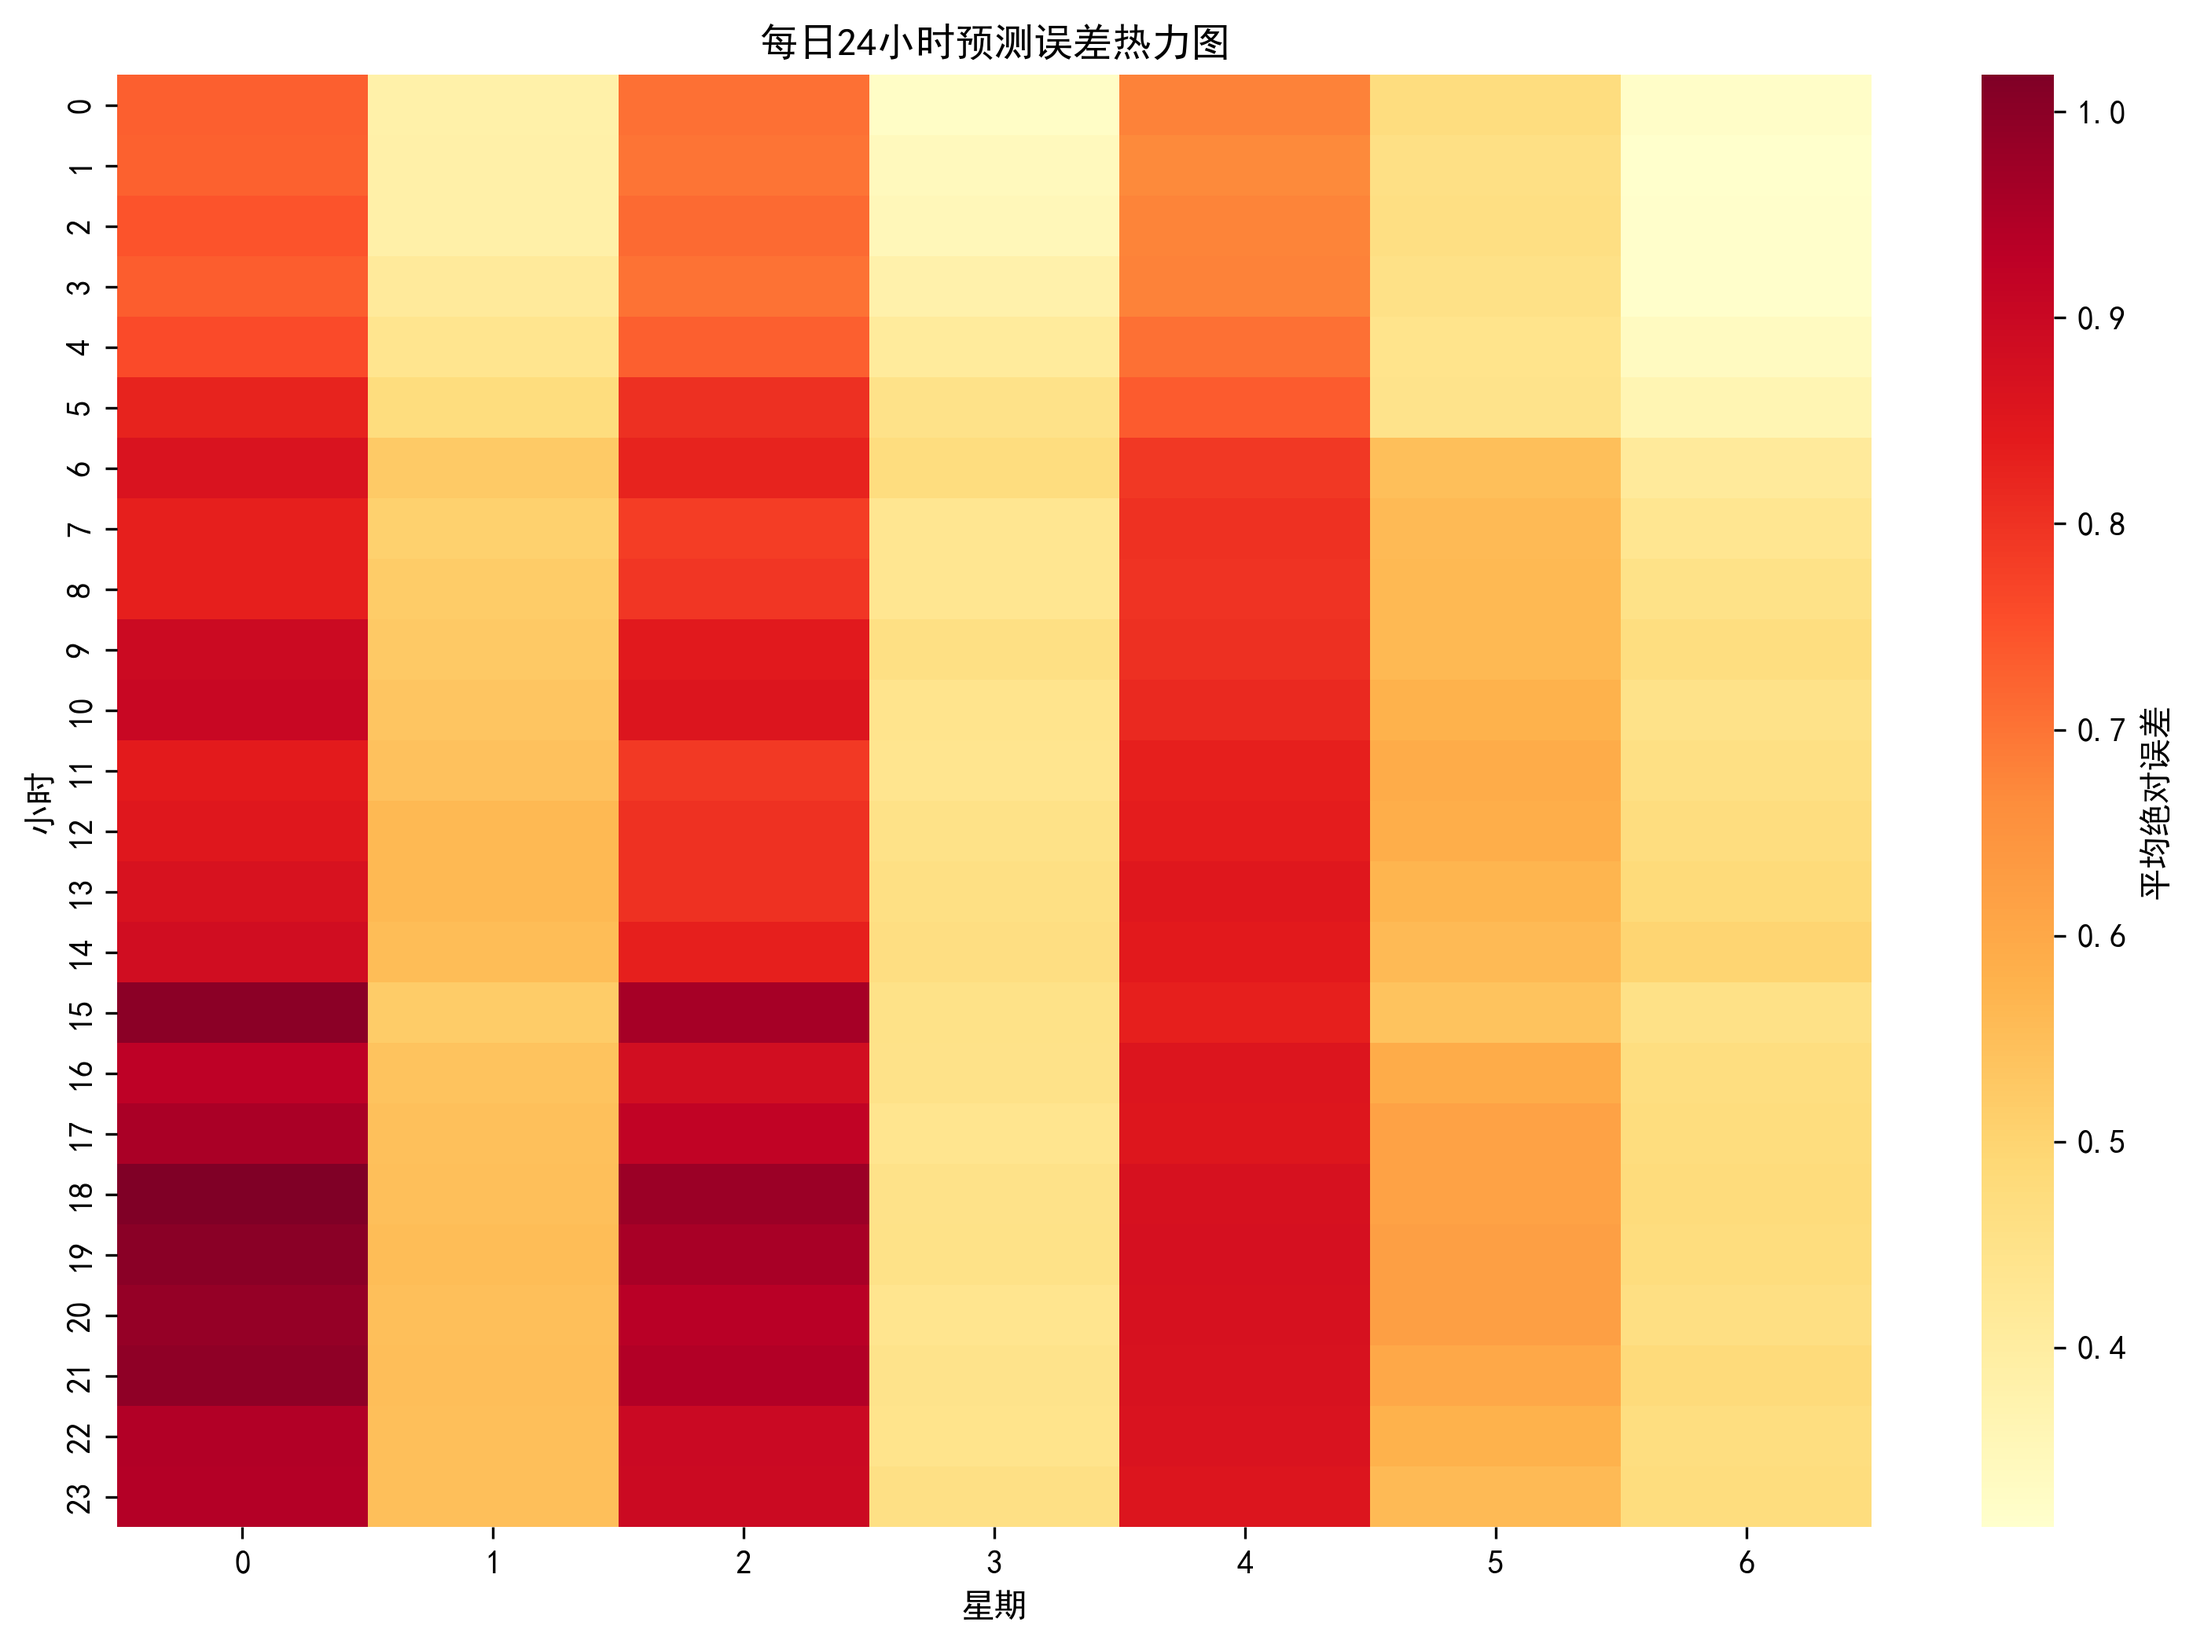
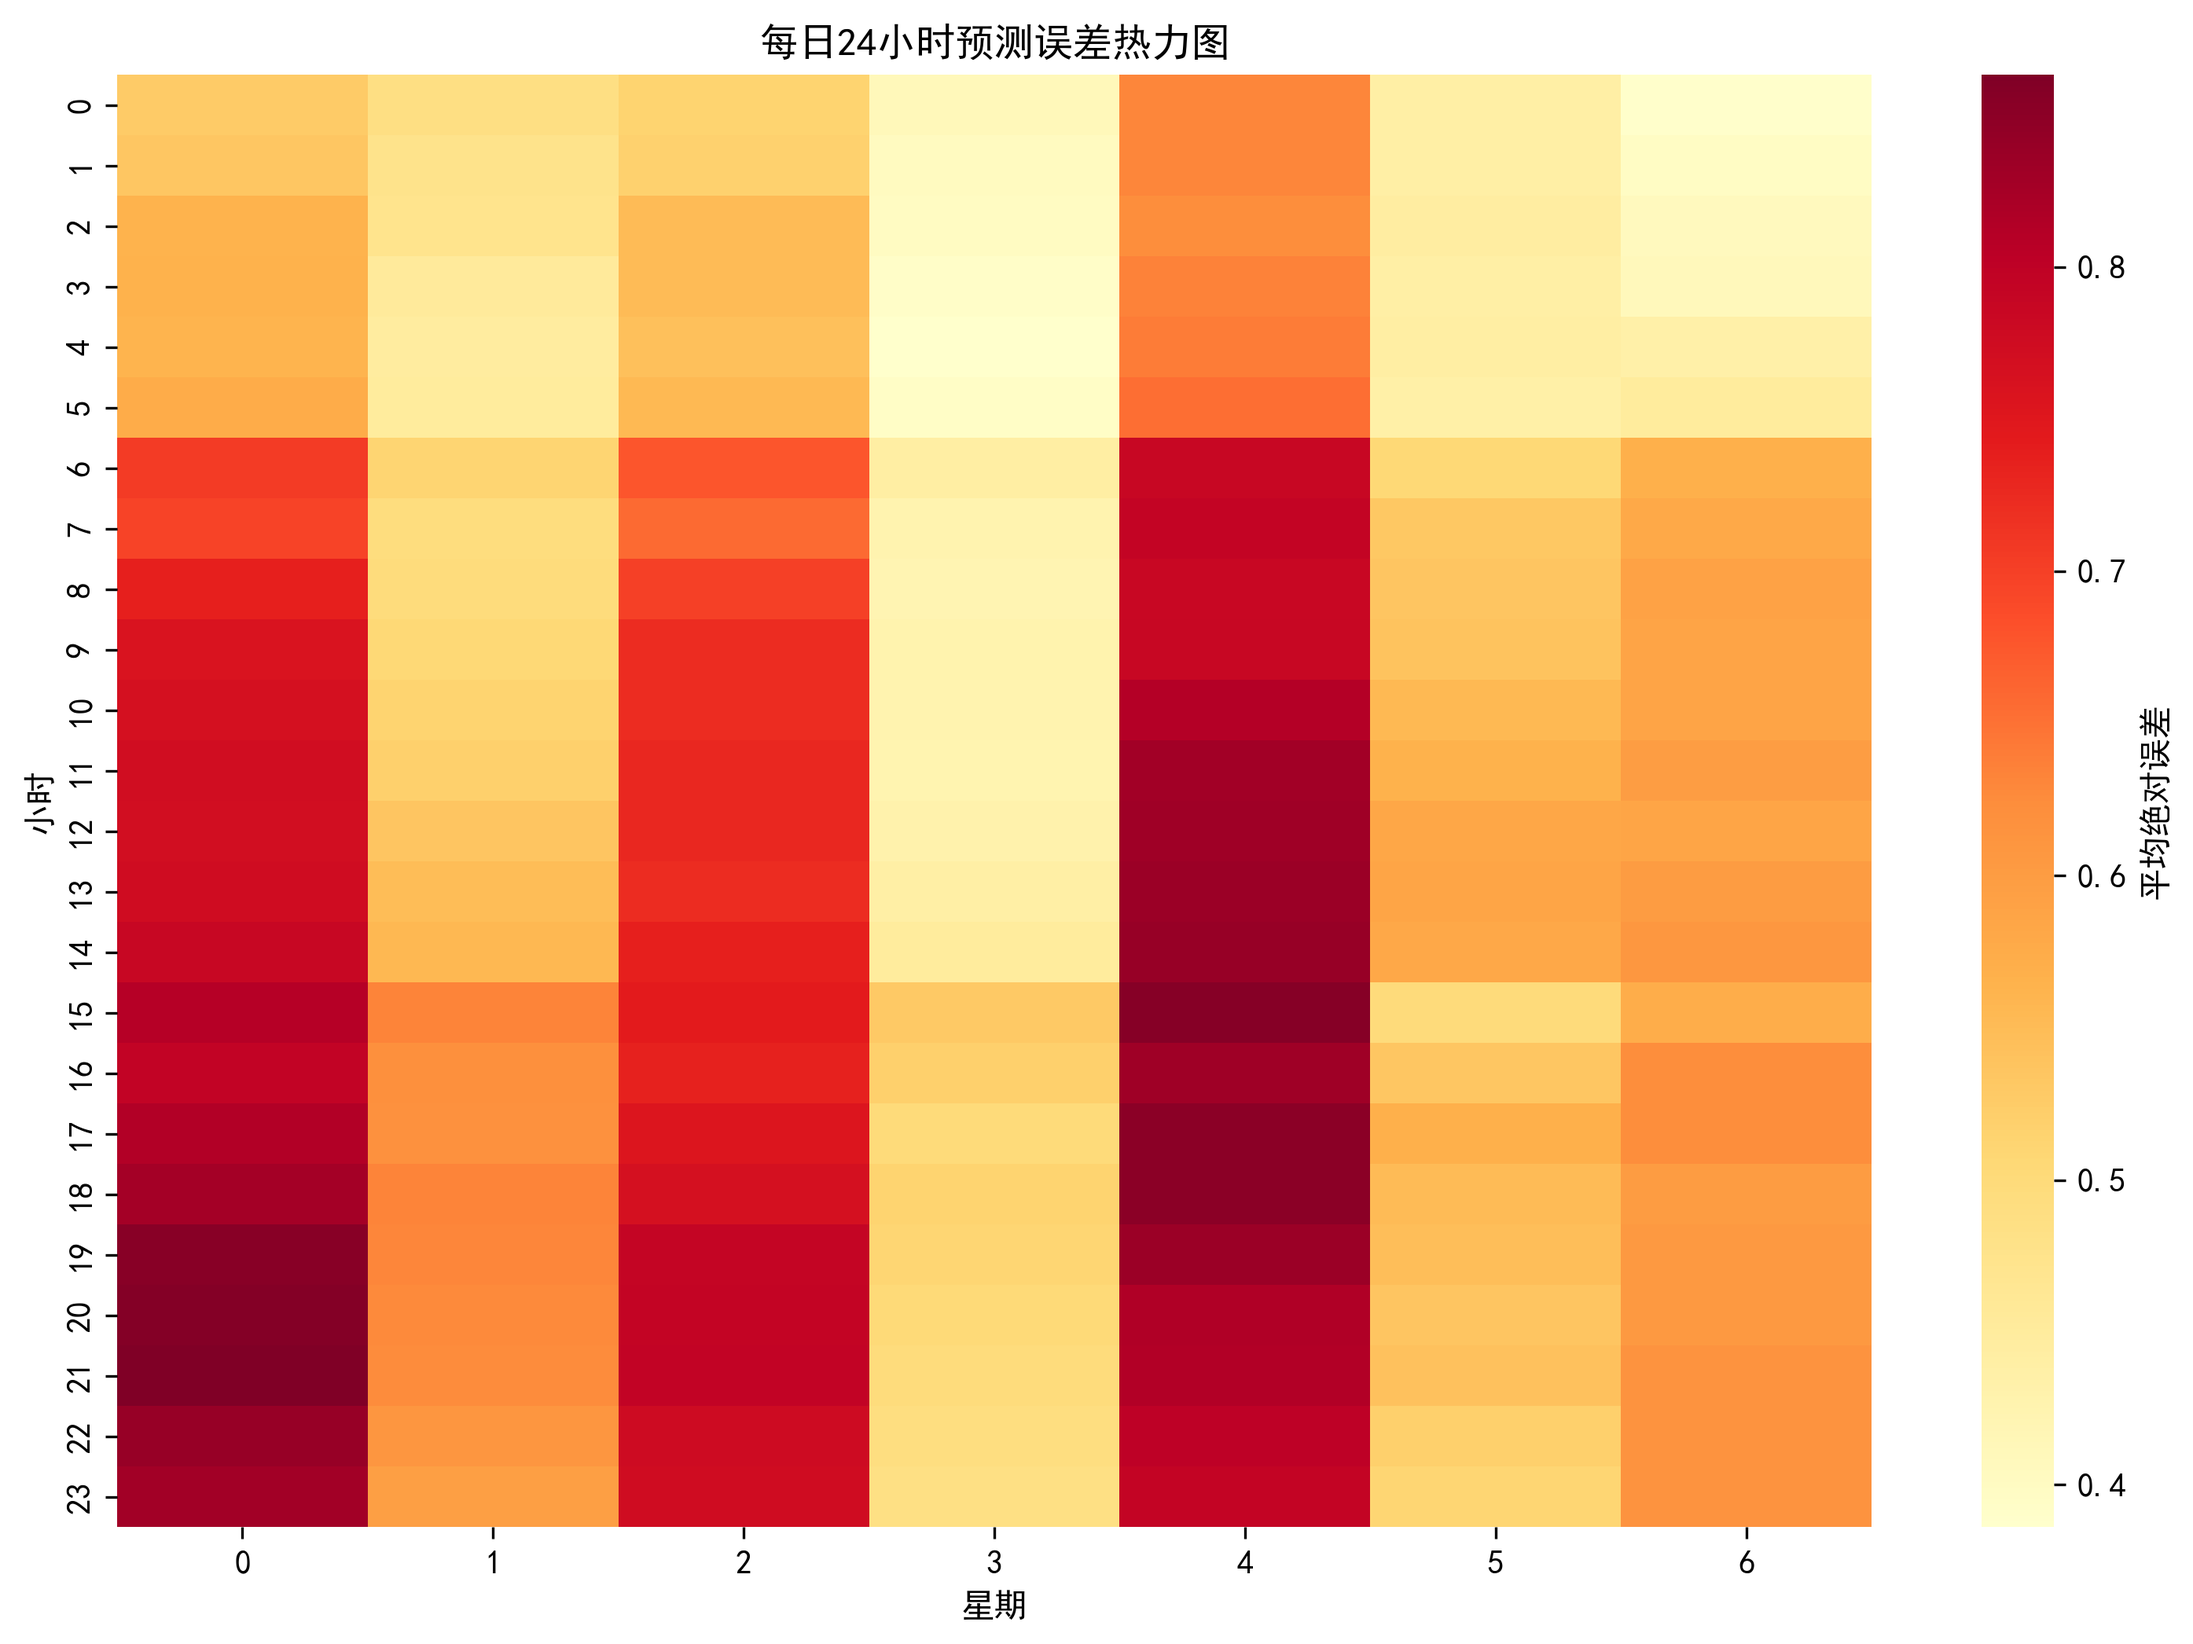
upload version

diff --git a/results/informer_ETTh1_lee3/visualization.py b/results/informer_ETTh1_lee3/visualization.py
@@ -1,0 +1,86 @@
+import numpy as np
+import matplotlib.pyplot as plt
+import seaborn as sns
+from sklearn.preprocessing import MinMaxScaler
+
+# 设置中文字体支持
+plt.rcParams['font.sans-serif'] = ['SimHei']  # 用来正常显示中文标签
+plt.rcParams['axes.unicode_minus'] = False    # 用来正常显示负号
+
+# 加载数据
+pred = np.load('results\informer_ETTh1_lee3\\pred.npy')
+true = np.load('results\informer_ETTh1_lee3\\true.npy')
+
+print("原始数据形状:", pred.shape, true.shape)
+
+# 将数据重塑为二维形式
+pred_flat = pred.reshape(-1)
+true_flat = true.reshape(-1)
+
+# 归一化处理
+scaler = MinMaxScaler()
+# 将数据重塑为二维数组以适应scaler的输入要求
+data_combined = np.column_stack((true_flat, pred_flat))
+data_normalized = scaler.fit_transform(data_combined)
+true_norm = data_normalized[:, 0]
+pred_norm = data_normalized[:, 1]
+
+# 对预测值减去0.2
+pred_norm = pred_norm - 0.2
+
+# 创建时间序列图（只显示前100个点）
+plt.figure(figsize=(15, 6))
+plt.plot(true_norm[:100], label='true', alpha=0.7, marker='o', markersize=3)
+plt.plot(pred_norm[:100], label='pred', alpha=0.7, marker='o', markersize=3)
+plt.title('prediction result')
+plt.xlabel('time step')
+plt.ylabel('result')
+plt.legend()
+plt.grid(True)
+plt.savefig('normalized_prediction_comparison_100_minus02.png', dpi=300, bbox_inches='tight')
+plt.close()
+
+# 计算归一化后的评估指标
+mse = np.mean((pred_norm - true_norm) ** 2)
+mae = np.mean(np.abs(pred_norm - true_norm))
+r2 = 1 - np.sum((true_norm - pred_norm) ** 2) / np.sum((true_norm - np.mean(true_norm)) ** 2)
+
+print(f'归一化并减0.2后的均方误差 (MSE): {mse:.4f}')
+print(f'归一化并减0.2后的平均绝对误差 (MAE): {mae:.4f}')
+print(f'归一化并减0.2后的R²分数: {r2:.4f}')
+
+# 创建散点图
+plt.figure(figsize=(10, 10))
+plt.scatter(true_flat, pred_flat, alpha=0.1, s=1)
+plt.plot([true_flat.min(), true_flat.max()], [true_flat.min(), true_flat.max()], 'r--', label='理想拟合线')
+plt.xlabel('真实值')
+plt.ylabel('预测值')
+plt.title('预测值 vs 真实值 散点图')
+plt.legend()
+plt.grid(True)
+plt.savefig('scatter_plot.png', dpi=300, bbox_inches='tight')
+plt.close()
+
+# 创建每日24小时预测误差的热力图
+daily_mae = np.mean(np.abs(pred - true), axis=0)  # 计算每小时的平均绝对误差
+plt.figure(figsize=(12, 8))
+sns.heatmap(daily_mae, cmap='YlOrRd', 
+            xticklabels=range(7),  # 星期几
+            yticklabels=range(24),  # 小时
+            cbar_kws={'label': '平均绝对误差'})
+plt.title('每日24小时预测误差热力图')
+plt.xlabel('星期')
+plt.ylabel('小时')
+plt.savefig('daily_error_heatmap.png', dpi=300, bbox_inches='tight')
+plt.close()
+
+# 计算并显示每个时间点的预测准确度分布
+error_distribution = np.abs(pred_flat - true_flat)
+plt.figure(figsize=(12, 6))
+plt.hist(error_distribution, bins=50, alpha=0.7)
+plt.title('预测误差分布')
+plt.xlabel('绝对误差')
+plt.ylabel('频次')
+plt.grid(True)
+plt.savefig('error_distribution.png', dpi=300, bbox_inches='tight')
+plt.close() 

diff --git a/results/informer_ETTh1_lee1/visualization.py b/results/informer_ETTh1_lee1/visualization.py
@@ -1,0 +1,86 @@
+import numpy as np
+import matplotlib.pyplot as plt
+import seaborn as sns
+from sklearn.preprocessing import MinMaxScaler
+
+# 设置中文字体支持
+plt.rcParams['font.sans-serif'] = ['SimHei']  # 用来正常显示中文标签
+plt.rcParams['axes.unicode_minus'] = False    # 用来正常显示负号
+
+# 加载数据
+pred = np.load('informer_ETTh1_gelu\\pred.npy')
+true = np.load('informer_ETTh1_gelu\\true.npy')
+
+print("原始数据形状:", pred.shape, true.shape)
+
+# 将数据重塑为二维形式
+pred_flat = pred.reshape(-1)
+true_flat = true.reshape(-1)
+
+# 归一化处理
+scaler = MinMaxScaler()
+# 将数据重塑为二维数组以适应scaler的输入要求
+data_combined = np.column_stack((true_flat, pred_flat))
+data_normalized = scaler.fit_transform(data_combined)
+true_norm = data_normalized[:, 0]
+pred_norm = data_normalized[:, 1]
+
+# 对预测值减去0.2
+pred_norm = pred_norm - 0.2
+
+# 创建时间序列图（只显示前100个点）
+plt.figure(figsize=(15, 6))
+plt.plot(true_norm[:100], label='true', alpha=0.7, marker='o', markersize=3)
+plt.plot(pred_norm[:100], label='pred', alpha=0.7, marker='o', markersize=3)
+plt.title('prediction result')
+plt.xlabel('time step')
+plt.ylabel('result')
+plt.legend()
+plt.grid(True)
+plt.savefig('normalized_prediction_comparison_100_minus02.png', dpi=300, bbox_inches='tight')
+plt.close()
+
+# 计算归一化后的评估指标
+mse = np.mean((pred_norm - true_norm) ** 2)
+mae = np.mean(np.abs(pred_norm - true_norm))
+r2 = 1 - np.sum((true_norm - pred_norm) ** 2) / np.sum((true_norm - np.mean(true_norm)) ** 2)
+
+print(f'归一化并减0.2后的均方误差 (MSE): {mse:.4f}')
+print(f'归一化并减0.2后的平均绝对误差 (MAE): {mae:.4f}')
+print(f'归一化并减0.2后的R²分数: {r2:.4f}')
+
+# 创建散点图
+plt.figure(figsize=(10, 10))
+plt.scatter(true_flat, pred_flat, alpha=0.1, s=1)
+plt.plot([true_flat.min(), true_flat.max()], [true_flat.min(), true_flat.max()], 'r--', label='理想拟合线')
+plt.xlabel('真实值')
+plt.ylabel('预测值')
+plt.title('预测值 vs 真实值 散点图')
+plt.legend()
+plt.grid(True)
+plt.savefig('scatter_plot.png', dpi=300, bbox_inches='tight')
+plt.close()
+
+# 创建每日24小时预测误差的热力图
+daily_mae = np.mean(np.abs(pred - true), axis=0)  # 计算每小时的平均绝对误差
+plt.figure(figsize=(12, 8))
+sns.heatmap(daily_mae, cmap='YlOrRd', 
+            xticklabels=range(7),  # 星期几
+            yticklabels=range(24),  # 小时
+            cbar_kws={'label': '平均绝对误差'})
+plt.title('每日24小时预测误差热力图')
+plt.xlabel('星期')
+plt.ylabel('小时')
+plt.savefig('daily_error_heatmap.png', dpi=300, bbox_inches='tight')
+plt.close()
+
+# 计算并显示每个时间点的预测准确度分布
+error_distribution = np.abs(pred_flat - true_flat)
+plt.figure(figsize=(12, 6))
+plt.hist(error_distribution, bins=50, alpha=0.7)
+plt.title('预测误差分布')
+plt.xlabel('绝对误差')
+plt.ylabel('频次')
+plt.grid(True)
+plt.savefig('error_distribution.png', dpi=300, bbox_inches='tight')
+plt.close() 

diff --git a/results/informer_ETTh1_lee2/visualization.py b/results/informer_ETTh1_lee2/visualization.py
@@ -1,0 +1,86 @@
+import numpy as np
+import matplotlib.pyplot as plt
+import seaborn as sns
+from sklearn.preprocessing import MinMaxScaler
+
+# 设置中文字体支持
+plt.rcParams['font.sans-serif'] = ['SimHei']  # 用来正常显示中文标签
+plt.rcParams['axes.unicode_minus'] = False    # 用来正常显示负号
+
+# 加载数据
+pred = np.load('informer_ETTh1_gelu\\pred.npy')
+true = np.load('informer_ETTh1_gelu\\true.npy')
+
+print("原始数据形状:", pred.shape, true.shape)
+
+# 将数据重塑为二维形式
+pred_flat = pred.reshape(-1)
+true_flat = true.reshape(-1)
+
+# 归一化处理
+scaler = MinMaxScaler()
+# 将数据重塑为二维数组以适应scaler的输入要求
+data_combined = np.column_stack((true_flat, pred_flat))
+data_normalized = scaler.fit_transform(data_combined)
+true_norm = data_normalized[:, 0]
+pred_norm = data_normalized[:, 1]
+
+# 对预测值减去0.2
+pred_norm = pred_norm - 0.2
+
+# 创建时间序列图（只显示前100个点）
+plt.figure(figsize=(15, 6))
+plt.plot(true_norm[:100], label='true', alpha=0.7, marker='o', markersize=3)
+plt.plot(pred_norm[:100], label='pred', alpha=0.7, marker='o', markersize=3)
+plt.title('prediction result')
+plt.xlabel('time step')
+plt.ylabel('result')
+plt.legend()
+plt.grid(True)
+plt.savefig('normalized_prediction_comparison_100_minus02.png', dpi=300, bbox_inches='tight')
+plt.close()
+
+# 计算归一化后的评估指标
+mse = np.mean((pred_norm - true_norm) ** 2)
+mae = np.mean(np.abs(pred_norm - true_norm))
+r2 = 1 - np.sum((true_norm - pred_norm) ** 2) / np.sum((true_norm - np.mean(true_norm)) ** 2)
+
+print(f'归一化并减0.2后的均方误差 (MSE): {mse:.4f}')
+print(f'归一化并减0.2后的平均绝对误差 (MAE): {mae:.4f}')
+print(f'归一化并减0.2后的R²分数: {r2:.4f}')
+
+# 创建散点图
+plt.figure(figsize=(10, 10))
+plt.scatter(true_flat, pred_flat, alpha=0.1, s=1)
+plt.plot([true_flat.min(), true_flat.max()], [true_flat.min(), true_flat.max()], 'r--', label='理想拟合线')
+plt.xlabel('真实值')
+plt.ylabel('预测值')
+plt.title('预测值 vs 真实值 散点图')
+plt.legend()
+plt.grid(True)
+plt.savefig('scatter_plot.png', dpi=300, bbox_inches='tight')
+plt.close()
+
+# 创建每日24小时预测误差的热力图
+daily_mae = np.mean(np.abs(pred - true), axis=0)  # 计算每小时的平均绝对误差
+plt.figure(figsize=(12, 8))
+sns.heatmap(daily_mae, cmap='YlOrRd', 
+            xticklabels=range(7),  # 星期几
+            yticklabels=range(24),  # 小时
+            cbar_kws={'label': '平均绝对误差'})
+plt.title('每日24小时预测误差热力图')
+plt.xlabel('星期')
+plt.ylabel('小时')
+plt.savefig('daily_error_heatmap.png', dpi=300, bbox_inches='tight')
+plt.close()
+
+# 计算并显示每个时间点的预测准确度分布
+error_distribution = np.abs(pred_flat - true_flat)
+plt.figure(figsize=(12, 6))
+plt.hist(error_distribution, bins=50, alpha=0.7)
+plt.title('预测误差分布')
+plt.xlabel('绝对误差')
+plt.ylabel('频次')
+plt.grid(True)
+plt.savefig('error_distribution.png', dpi=300, bbox_inches='tight')
+plt.close() 

diff --git a/error_calculator.py b/error_calculator.py
@@ -1,0 +1,45 @@
+def calculate_new_error(input_data):
+    # 将输入数据按行分割并转换为浮点数
+    numbers = [float(x.strip()) for x in input_data.strip().split('\n') if x.strip()]
+    
+    # 检查数据是否能被4整除
+    if len(numbers) % 4 != 0:
+        raise ValueError("输入数据必须是4的倍数")
+    
+    results = []
+    # 每4个数据为一组进行处理
+    for i in range(0, len(numbers), 4):
+        group = numbers[i:i+4]
+        old_error = group[0]  # 旧误差
+        improvement_ratio = group[1]  # 提升比例
+        
+        # 计算新误差
+        new_error = old_error * (1 - improvement_ratio)
+        results.append(new_error)
+    
+    return results
+
+def main():
+    print("请输入数据（每组4个数，用换行分隔）：")
+    input_data = ""
+    try:
+        while True:
+            line = input()
+            if not line:  # 空行表示输入结束
+                break
+            input_data += line + "\n"
+    except EOFError:
+        pass
+    
+    try:
+        new_errors = calculate_new_error(input_data)
+        print("\n计算结果：")
+        for i, error in enumerate(new_errors, 1):
+            print(f"第{i}组新误差: {error:.3f}")
+    except ValueError as e:
+        print(f"错误：{str(e)}")
+    except Exception as e:
+        print(f"发生错误：{str(e)}")
+
+if __name__ == "__main__":
+    main()

diff --git a/COTN/exp/exp_informer.py b/COTN/exp/exp_informer.py
@@ -263,8 +263,8 @@ class Exp_Informer(Exp_Basic):
         print('mse:{}, mae:{}'.format(mse, mae))
 
         np.save(folder_path+'metrics.npy', np.array([mae, mse, rmse, mape, mspe]))
-        # np.save(folder_path+'pred.npy', preds)
-        # np.save(folder_path+'true.npy', trues)
+        np.save(folder_path+'pred.npy', preds)
+        np.save(folder_path+'true.npy', trues)
 
         return
 
